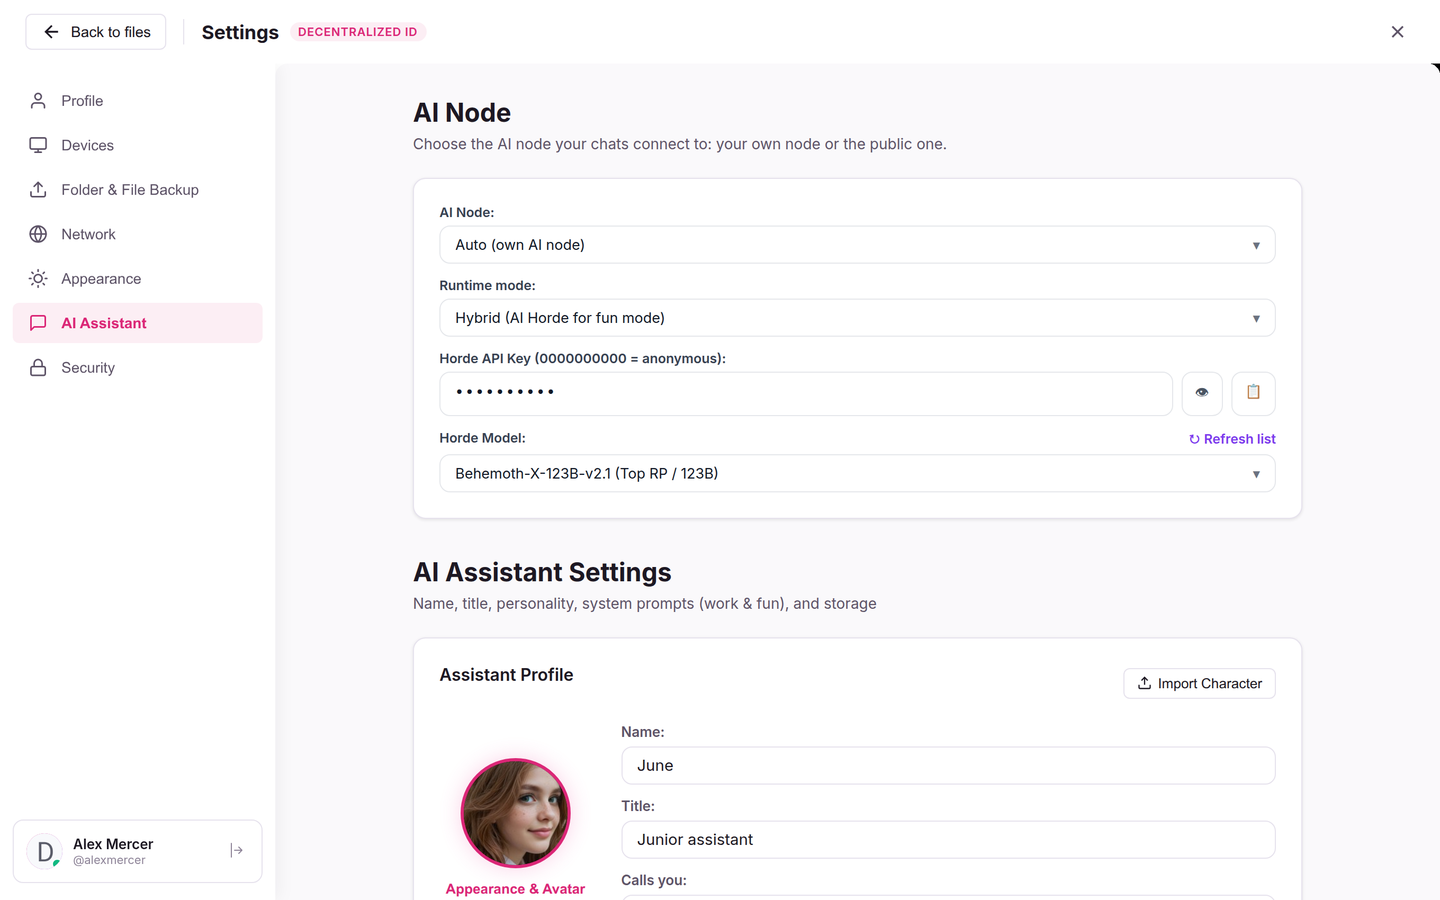
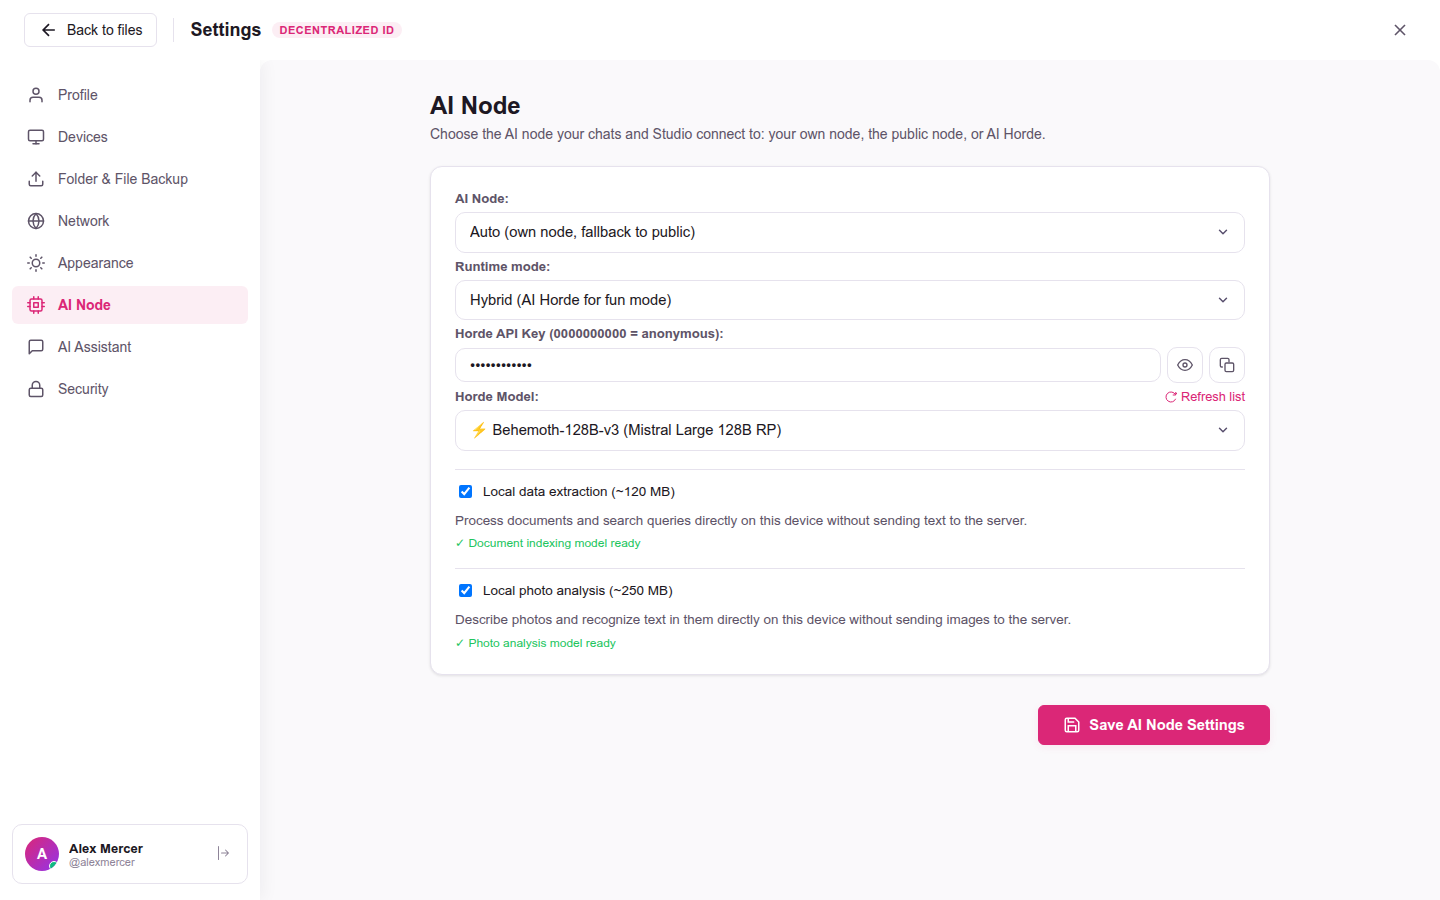
docs(screenshots): update AI Node and AI Assistant settings screenshots for split sidebar sections

diff --git a/ai/README.md b/ai/README.md
@@ -167,7 +167,7 @@ If you run the AI node on a low-power always-on NAS or mini-PC without a discret
 - **Official `horde-worker-reGen` + Cooperative ComfyUI Bridge (`regen_comfy_bridge/`):** Operators running the official `horde-worker-reGen` (`SDXL`, `Pony`, `Flux.1-Schnell`, LoRAs, ControlNet) on a single 12-24 GB GPU can prepend `PYTHONPATH=/opt/direct/ai/regen_comfy_bridge` (without modifying `horde-worker-reGen` or `hordelib`) to expose `hordelib`'s embedded ComfyUI on `127.0.0.1:8188` and run Direct Creative Studio (`flow.json` SDXL + DMD2, CivitAI LoRAs, IP-Adapter + ReActor + Impact Auto-Inpaint) cooperatively between AI Horde jobs on the same CUDA context, plus access the live ComfyUI web UI via the **ComfyUI** P2P Node App.
 - **Owner-Only `/horde` Telemetry Console:** Monitor `horde-regen.service`, live Kudos earned, Megapixelsteps, `:8188` GPU VRAM availability, advertised AI Horde models, Studio checkpoints, and 1-click **Maintenance Mode** (`PUT /api/v2/workers/{id}`) from `http://localhost:4000/horde` (or the **AI Horde** Node App inside **Disk Direct**).
 
-![AI Horde Hybrid Mode & Character Import](docs/horde_assistant.png)
+![AI Horde Hybrid Mode in Settings -> AI Node](docs/horde_assistant.png)
 
 ![AI Horde reGen Telemetry & ComfyUI Bridge Console](docs/horde_worker.png)
 
